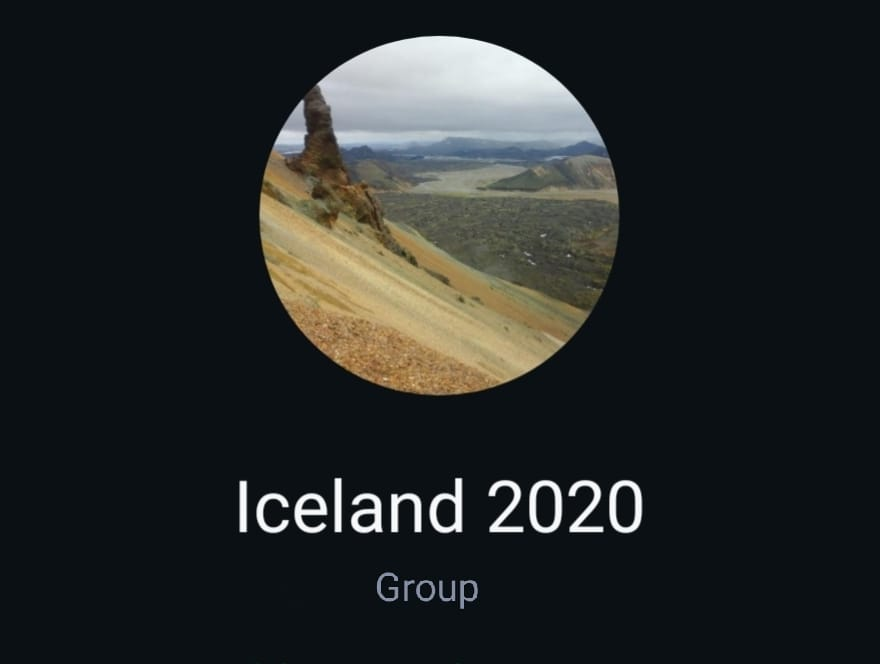
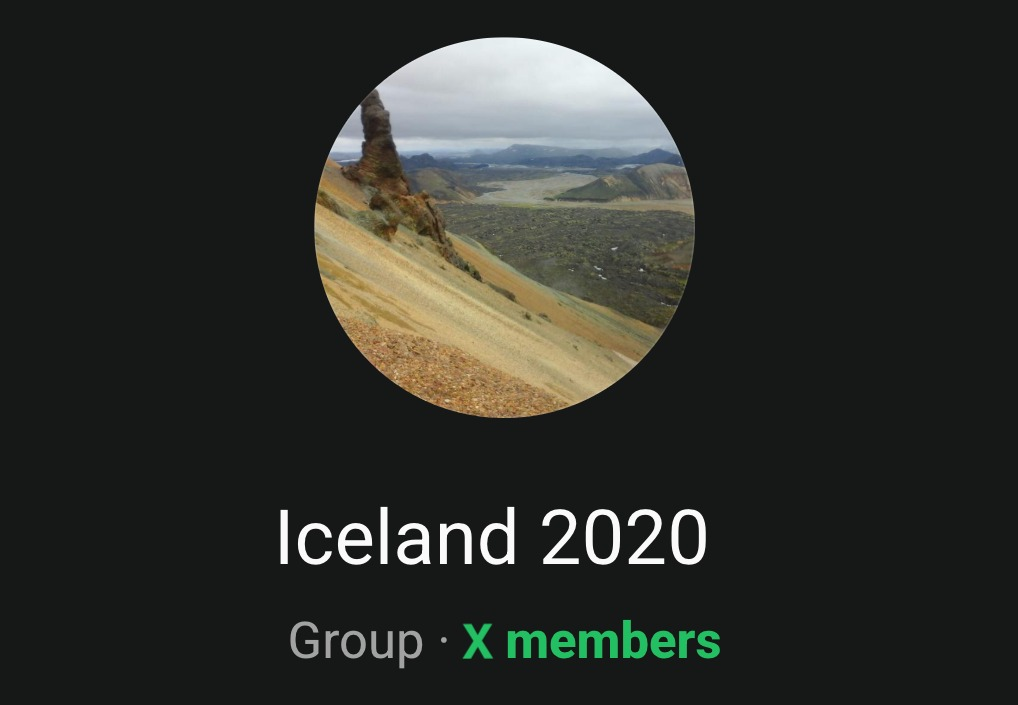
foto lista nozze

diff --git a/lista-nozze/index.html b/lista-nozze/index.html
@@ -108,7 +108,7 @@
                         loading="lazy">
                 </div>
                 <div class="gift-caption">
-                    <h3 data-i18n="gift_future">Il nostro futuro</h3>
+                    <h3 data-i18n="gift_future">La montagna</h3>
                     <p data-i18n="gift_future_desc">
                         La montagna è una delle nostre tante passioni. Poterla affrontare in sicurezza è sempre una buona idea.
                     </p>
